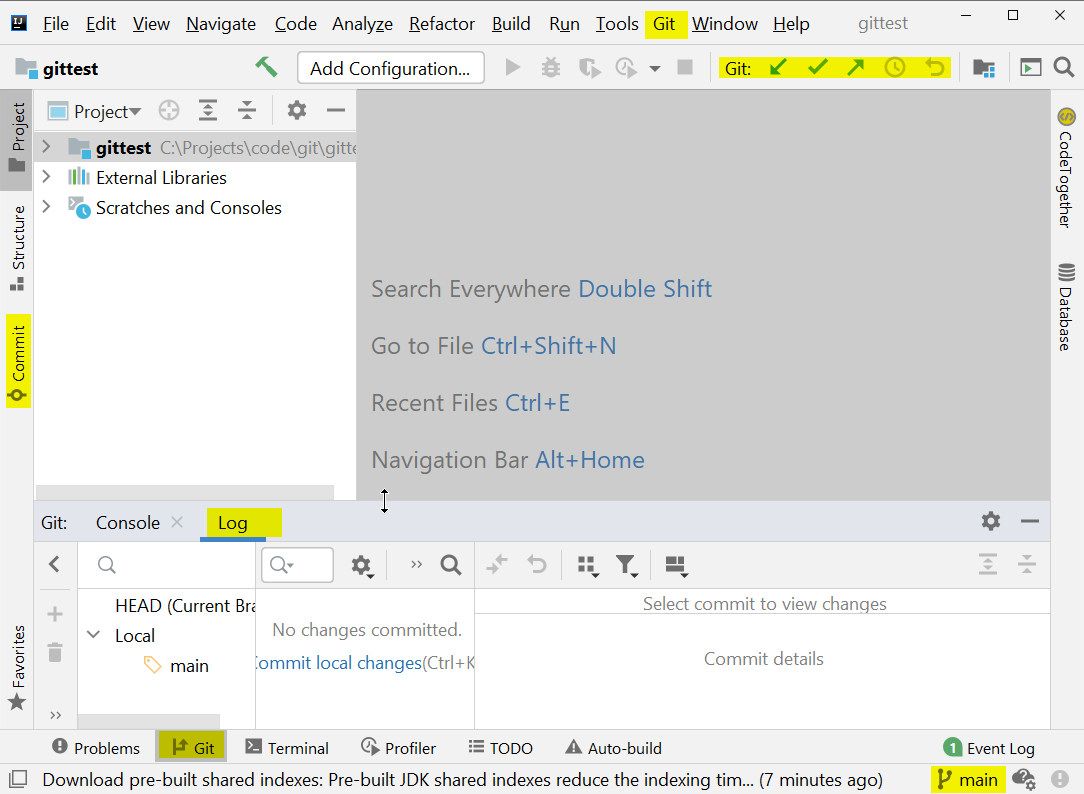
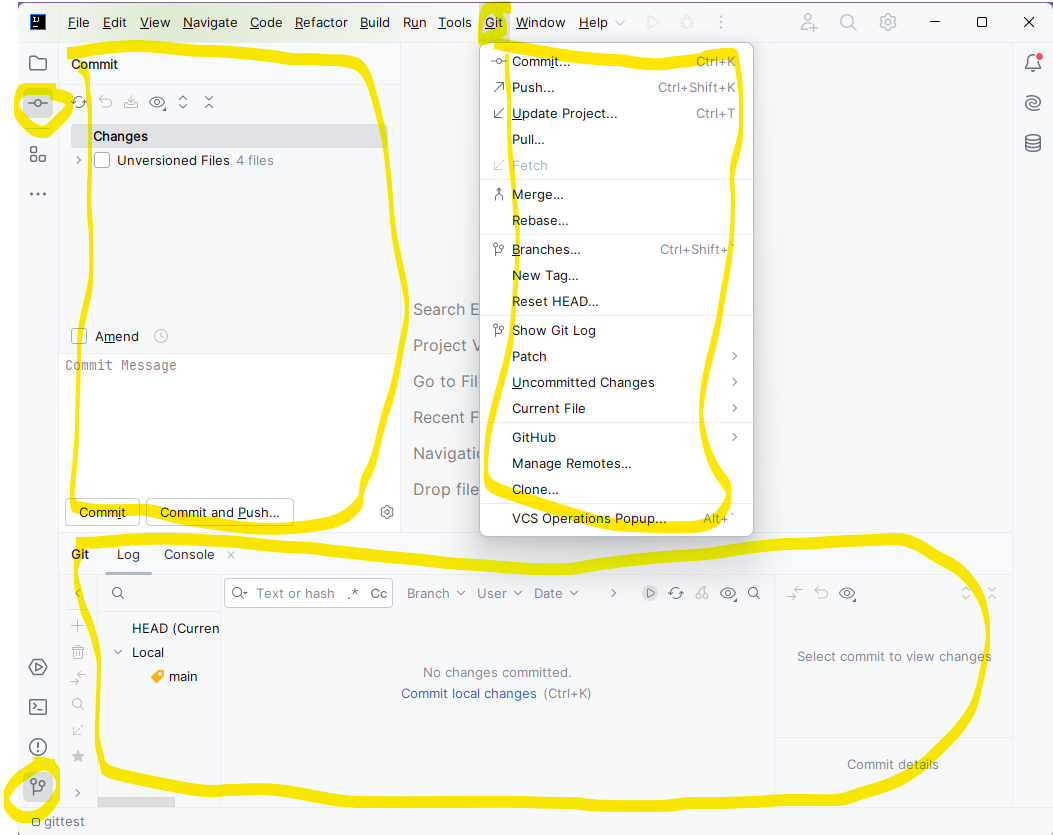
new version of IntelliJ

diff --git a/01_getting_started/06_git_basis_met_intellij.md b/01_getting_started/06_git_basis_met_intellij.md
@@ -5,6 +5,7 @@
 * open een project in IntelliJ  
 * als git nog niet geinitialiseerd is op deze directory dan zie je in IntelliJ in de menu niet "Git" maar wel "VCS". 
   En in de toolbar zie je dan geen git symbolen.
+* Noot: VCS betekent "Version Control System"
 
 Dit project is nog niet geinitialiseerd voor git: 
 ![git_init_intellij_not_a_repo.png](images/git_init_intellij_not_a_repo.png)
@@ -18,32 +19,33 @@ Als je deze directory bekijkt in de file explorer dan zie je dat er geen .git su
 * met andere woorden: we maken van onze directory een **git repository**
 * IntelliJ > menubar > VCS > Create Git repository > Kies de directory van dit project in IntelliJ 
 
-![git_init_intellij.png](images/git_init_intellij.png)
+![img.png](images/git_init_intellij.png)
 
 
 IntelliJ ziet dat je project nu geinitialiseerd is voor git. 
 Dit verandert wel veel voor je project in de user interface van IntelliJ: 
-![git_init_intellij_result.png](images/git_init_intellij_result.png)
+![img.png](images/git_init_intellij_result.png)
 
-* Je ziet rechts onderaan dat de “**branch main**” actief is. In het eerste deel van deze bundel werken we met 1 branch
-(main). Hierover later meer.
-* noot: in sommige versies van git is de default branch master ipv main
+* Je ziet in het menu bovenaan dat de “**branch main**” actief is. In het eerste deel van deze bundel werken we met 1 branch
+(main of master). Hierover later meer.
+* noot: je default branch heet normaal gezien main als je de configuratie goed gedaan hebt na de [installatie van git](02_installeer_git.md)   
 * In het "Git Tool Window" onderaan zie je: “No changes committed.”: dit betekent dat we nog geen commits gedaan hebben.
 * We noemen je directory de “**working directory**”.
 * Een **commit** is een **snapshot** van de working directory: daar zit alle info in waarmee je terug kan gaan naar de situatie op het moment van de commit. 
 
-| je hebt nu een lokale repository | 
-|---| 
+| je hebt nu een lokale git repository | 
+|--------------------------------------| 
 
 ## .gitignore file 
-* Als je met intelliJ werkt moet je asap een [.gitignore](08_gitignore.md) file toevoegen aan je project.
+* Als je met IntelliJ werkt moet je asap een [.gitignore](08_gitignore.md) file toevoegen aan je project.
 * Maak in de root van je project een nieuwe file met naam .gitignore. 
 * Git komt vragen of je deze file wil toevoegen in git, dat is OK. 
-* Open deze file en voeg deze 2 lijnen toe:
+* Open deze file en voeg zeker deze 2 lijnen toe:
 ```
   .idea
   *.iml
 ```
+* Voor sommige soorten projecten voorziet IntelliJ zelf al een .gitignore file. Je moet wel altijd nog deze 2 lijnen toevoegen. 
 * Dit is nodig omdat we de IntelliJ configuratie zeker niet in git willen toevoegen
 
 ## Commits toevoegen aan je lokale repository 
@@ -54,13 +56,12 @@ Dit verandert wel veel voor je project in de user interface van IntelliJ:
   * **untracked**: niet gekend door git
 * Maak een nieuwe file in je project. 
   Dit is eerst een untracked file. 
-  Als Git komt vragen of je de files ook aan git wil toevoegen en je zegt OK dan wordt  deze file onmiddellijk getracked.   
-* IntelliJ toont untracked files in het rood en changed files in het groen.
+  Als Git komt vragen of je de files ook aan git wil toevoegen en je zegt OK dan wordt deze file onmiddellijk getracked.   
+* IntelliJ toont untracked files in het rood en new added files in het groen.
 
   ![git_init_intellij_tracked_untracked.png](images/git_init_intellij_tracked_untracked.png)
 
-
-* Open het Commit window (rechter marge)
+* Open het Commit window (commit-knopje in de linker marge - of <CTRL>-k)
   
   ![git_init_intellij_commit.png](images/git_init_intellij_commit.png)
 
